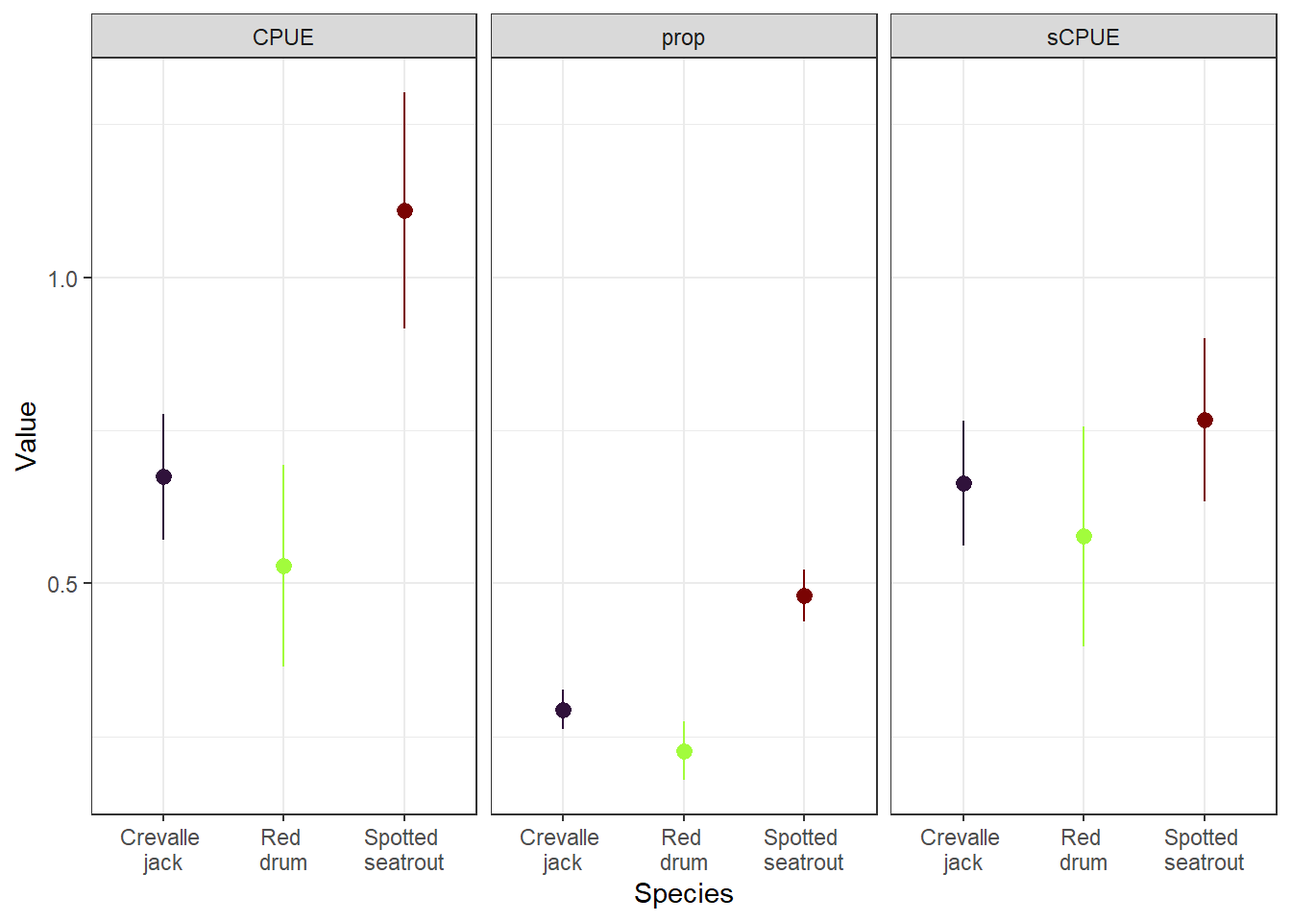
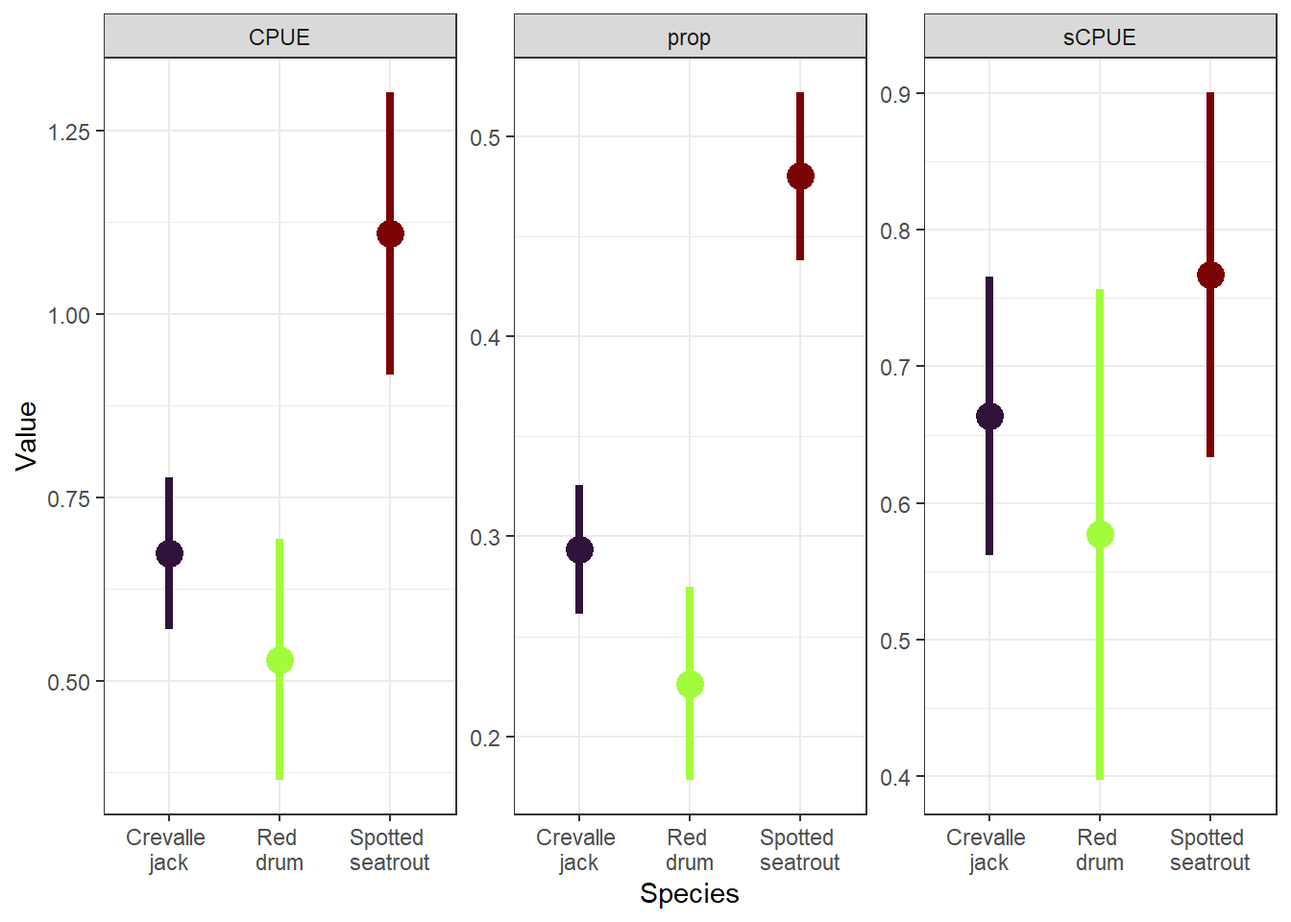
add answer key to hw 1

diff --git a/docs/solutions/hw1_key.html b/docs/solutions/hw1_key.html
@@ -282,34 +282,36 @@ pre > code.sourceCode > span > a:first-child::before { text-decoration: underlin
 <span id="cb3-15"><a href="#cb3-15" aria-hidden="true" tabindex="-1"></a><span class="co">#year with min CPUE</span></span>
 <span id="cb3-16"><a href="#cb3-16" aria-hidden="true" tabindex="-1"></a>df_m<span class="sc">$</span>Year[<span class="fu">which.min</span>(df_m<span class="sc">$</span>CPUE_m)]</span>
 <span id="cb3-17"><a href="#cb3-17" aria-hidden="true" tabindex="-1"></a><span class="do">## [1] 2015</span></span>
-<span id="cb3-18"><a href="#cb3-18" aria-hidden="true" tabindex="-1"></a></span>
-<span id="cb3-19"><a href="#cb3-19" aria-hidden="true" tabindex="-1"></a><span class="co"># species with maximum values </span></span>
-<span id="cb3-20"><a href="#cb3-20" aria-hidden="true" tabindex="-1"></a>df_m<span class="sc">$</span>max_sp</span>
-<span id="cb3-21"><a href="#cb3-21" aria-hidden="true" tabindex="-1"></a><span class="do">##  [1] "Spotted seatrout" "Spotted seatrout" "Spotted seatrout" "Spotted seatrout"</span></span>
-<span id="cb3-22"><a href="#cb3-22" aria-hidden="true" tabindex="-1"></a><span class="do">##  [5] "Spotted seatrout" "Spotted seatrout" "Spotted seatrout" "Spotted seatrout"</span></span>
-<span id="cb3-23"><a href="#cb3-23" aria-hidden="true" tabindex="-1"></a><span class="do">##  [9] "Spotted seatrout" "Spotted seatrout" "Spotted seatrout" "Spotted seatrout"</span></span>
-<span id="cb3-24"><a href="#cb3-24" aria-hidden="true" tabindex="-1"></a><span class="do">## [13] "Spotted seatrout" "Spotted seatrout" "Spotted seatrout" "Spotted seatrout"</span></span>
-<span id="cb3-25"><a href="#cb3-25" aria-hidden="true" tabindex="-1"></a><span class="do">## [17] "Spotted seatrout" "Spotted seatrout" "Spotted seatrout" "Spotted seatrout"</span></span>
-<span id="cb3-26"><a href="#cb3-26" aria-hidden="true" tabindex="-1"></a><span class="do">## [21] "Spotted seatrout" "Spotted seatrout" "Spotted seatrout" "Spotted seatrout"</span></span>
-<span id="cb3-27"><a href="#cb3-27" aria-hidden="true" tabindex="-1"></a><span class="do">## [25] "Spotted seatrout" "Spotted seatrout" "Spotted seatrout" "Spotted seatrout"</span></span>
-<span id="cb3-28"><a href="#cb3-28" aria-hidden="true" tabindex="-1"></a><span class="do">## [29] "Spotted seatrout" "Spotted seatrout" "Spotted seatrout" "Spotted seatrout"</span></span>
-<span id="cb3-29"><a href="#cb3-29" aria-hidden="true" tabindex="-1"></a><span class="do">## [33] "Spotted seatrout" "Spotted seatrout" "Spotted seatrout" "Spotted seatrout"</span></span>
-<span id="cb3-30"><a href="#cb3-30" aria-hidden="true" tabindex="-1"></a><span class="do">## [37] "Spotted seatrout" "Spotted seatrout"</span></span>
-<span id="cb3-31"><a href="#cb3-31" aria-hidden="true" tabindex="-1"></a></span>
-<span id="cb3-32"><a href="#cb3-32" aria-hidden="true" tabindex="-1"></a><span class="co"># species with min values</span></span>
-<span id="cb3-33"><a href="#cb3-33" aria-hidden="true" tabindex="-1"></a>df_m<span class="sc">$</span>min_sp</span>
-<span id="cb3-34"><a href="#cb3-34" aria-hidden="true" tabindex="-1"></a><span class="do">##  [1] "Crevalle jack" "Crevalle jack" "Red drum"      "Crevalle jack"</span></span>
-<span id="cb3-35"><a href="#cb3-35" aria-hidden="true" tabindex="-1"></a><span class="do">##  [5] "Crevalle jack" "Crevalle jack" "Red drum"      "Red drum"     </span></span>
-<span id="cb3-36"><a href="#cb3-36" aria-hidden="true" tabindex="-1"></a><span class="do">##  [9] "Red drum"      "Red drum"      "Red drum"      "Red drum"     </span></span>
-<span id="cb3-37"><a href="#cb3-37" aria-hidden="true" tabindex="-1"></a><span class="do">## [13] "Red drum"      "Red drum"      "Red drum"      "Red drum"     </span></span>
-<span id="cb3-38"><a href="#cb3-38" aria-hidden="true" tabindex="-1"></a><span class="do">## [17] "Red drum"      "Red drum"      "Red drum"      "Red drum"     </span></span>
-<span id="cb3-39"><a href="#cb3-39" aria-hidden="true" tabindex="-1"></a><span class="do">## [21] "Red drum"      "Red drum"      "Red drum"      "Red drum"     </span></span>
-<span id="cb3-40"><a href="#cb3-40" aria-hidden="true" tabindex="-1"></a><span class="do">## [25] "Red drum"      "Red drum"      "Red drum"      "Red drum"     </span></span>
-<span id="cb3-41"><a href="#cb3-41" aria-hidden="true" tabindex="-1"></a><span class="do">## [29] "Red drum"      "Red drum"      "Crevalle jack" "Crevalle jack"</span></span>
-<span id="cb3-42"><a href="#cb3-42" aria-hidden="true" tabindex="-1"></a><span class="do">## [33] "Red drum"      "Red drum"      "Red drum"      "Red drum"     </span></span>
-<span id="cb3-43"><a href="#cb3-43" aria-hidden="true" tabindex="-1"></a><span class="do">## [37] "Red drum"      "Red drum"</span></span></code><button title="Copy to Clipboard" class="code-copy-button"><i class="bi"></i></button></pre></div>
+<span id="cb3-18"><a href="#cb3-18" aria-hidden="true" tabindex="-1"></a><span class="fu">min</span>(df_m<span class="sc">$</span>CPUE_m)</span>
+<span id="cb3-19"><a href="#cb3-19" aria-hidden="true" tabindex="-1"></a><span class="do">## [1] 0.5793073</span></span>
+<span id="cb3-20"><a href="#cb3-20" aria-hidden="true" tabindex="-1"></a></span>
+<span id="cb3-21"><a href="#cb3-21" aria-hidden="true" tabindex="-1"></a><span class="co"># species with maximum values </span></span>
+<span id="cb3-22"><a href="#cb3-22" aria-hidden="true" tabindex="-1"></a>df_m<span class="sc">$</span>max_sp</span>
+<span id="cb3-23"><a href="#cb3-23" aria-hidden="true" tabindex="-1"></a><span class="do">##  [1] "Spotted seatrout" "Spotted seatrout" "Spotted seatrout" "Spotted seatrout"</span></span>
+<span id="cb3-24"><a href="#cb3-24" aria-hidden="true" tabindex="-1"></a><span class="do">##  [5] "Spotted seatrout" "Spotted seatrout" "Spotted seatrout" "Spotted seatrout"</span></span>
+<span id="cb3-25"><a href="#cb3-25" aria-hidden="true" tabindex="-1"></a><span class="do">##  [9] "Spotted seatrout" "Spotted seatrout" "Spotted seatrout" "Spotted seatrout"</span></span>
+<span id="cb3-26"><a href="#cb3-26" aria-hidden="true" tabindex="-1"></a><span class="do">## [13] "Spotted seatrout" "Spotted seatrout" "Spotted seatrout" "Spotted seatrout"</span></span>
+<span id="cb3-27"><a href="#cb3-27" aria-hidden="true" tabindex="-1"></a><span class="do">## [17] "Spotted seatrout" "Spotted seatrout" "Spotted seatrout" "Spotted seatrout"</span></span>
+<span id="cb3-28"><a href="#cb3-28" aria-hidden="true" tabindex="-1"></a><span class="do">## [21] "Spotted seatrout" "Spotted seatrout" "Spotted seatrout" "Spotted seatrout"</span></span>
+<span id="cb3-29"><a href="#cb3-29" aria-hidden="true" tabindex="-1"></a><span class="do">## [25] "Spotted seatrout" "Spotted seatrout" "Spotted seatrout" "Spotted seatrout"</span></span>
+<span id="cb3-30"><a href="#cb3-30" aria-hidden="true" tabindex="-1"></a><span class="do">## [29] "Spotted seatrout" "Spotted seatrout" "Spotted seatrout" "Spotted seatrout"</span></span>
+<span id="cb3-31"><a href="#cb3-31" aria-hidden="true" tabindex="-1"></a><span class="do">## [33] "Spotted seatrout" "Spotted seatrout" "Spotted seatrout" "Spotted seatrout"</span></span>
+<span id="cb3-32"><a href="#cb3-32" aria-hidden="true" tabindex="-1"></a><span class="do">## [37] "Spotted seatrout" "Spotted seatrout"</span></span>
+<span id="cb3-33"><a href="#cb3-33" aria-hidden="true" tabindex="-1"></a></span>
+<span id="cb3-34"><a href="#cb3-34" aria-hidden="true" tabindex="-1"></a><span class="co"># species with min values</span></span>
+<span id="cb3-35"><a href="#cb3-35" aria-hidden="true" tabindex="-1"></a>df_m<span class="sc">$</span>min_sp</span>
+<span id="cb3-36"><a href="#cb3-36" aria-hidden="true" tabindex="-1"></a><span class="do">##  [1] "Crevalle jack" "Crevalle jack" "Red drum"      "Crevalle jack"</span></span>
+<span id="cb3-37"><a href="#cb3-37" aria-hidden="true" tabindex="-1"></a><span class="do">##  [5] "Crevalle jack" "Crevalle jack" "Red drum"      "Red drum"     </span></span>
+<span id="cb3-38"><a href="#cb3-38" aria-hidden="true" tabindex="-1"></a><span class="do">##  [9] "Red drum"      "Red drum"      "Red drum"      "Red drum"     </span></span>
+<span id="cb3-39"><a href="#cb3-39" aria-hidden="true" tabindex="-1"></a><span class="do">## [13] "Red drum"      "Red drum"      "Red drum"      "Red drum"     </span></span>
+<span id="cb3-40"><a href="#cb3-40" aria-hidden="true" tabindex="-1"></a><span class="do">## [17] "Red drum"      "Red drum"      "Red drum"      "Red drum"     </span></span>
+<span id="cb3-41"><a href="#cb3-41" aria-hidden="true" tabindex="-1"></a><span class="do">## [21] "Red drum"      "Red drum"      "Red drum"      "Red drum"     </span></span>
+<span id="cb3-42"><a href="#cb3-42" aria-hidden="true" tabindex="-1"></a><span class="do">## [25] "Red drum"      "Red drum"      "Red drum"      "Red drum"     </span></span>
+<span id="cb3-43"><a href="#cb3-43" aria-hidden="true" tabindex="-1"></a><span class="do">## [29] "Red drum"      "Red drum"      "Crevalle jack" "Crevalle jack"</span></span>
+<span id="cb3-44"><a href="#cb3-44" aria-hidden="true" tabindex="-1"></a><span class="do">## [33] "Red drum"      "Red drum"      "Red drum"      "Red drum"     </span></span>
+<span id="cb3-45"><a href="#cb3-45" aria-hidden="true" tabindex="-1"></a><span class="do">## [37] "Red drum"      "Red drum"</span></span></code><button title="Copy to Clipboard" class="code-copy-button"><i class="bi"></i></button></pre></div>
 </div>
-<p><em>Short answer: The year with the highest mean CPUE is 0.9904098 in 1991. The year with the lowest mean CPUE is 0.5793073 in 2015. The species with the highest CPUE is always Spotted seatrout, but the minimum is both Crevalle Jack and Red drum depending on the year</em></p>
+<p><em>Short answer: The highest mean CPUE is 0.9904098 in 1991. The lowest mean CPUE is 0.5793073 in 2015. The species with the highest CPUE is always Spotted seatrout, but the minimum is both Crevalle Jack and Red drum depending on the year</em></p>
 <ol start="4" type="1">
 <li>(4 pts) Add 2 new columns to the dataframe/tibble from question 2. One column should contain the proportion of the yearly total CPUE for each species. The other column should scale CPUE so that the yearly catch is relative to the maximum CPUE for that species.<br>
 </li>
@@ -344,42 +346,41 @@ pre > code.sourceCode > span > a:first-child::before { text-decoration: underlin
 </ol>
 <div class="cell">
 <div class="sourceCode cell-code" id="cb5"><pre class="sourceCode r code-with-copy"><code class="sourceCode r"><span id="cb5-1"><a href="#cb5-1" aria-hidden="true" tabindex="-1"></a><span class="fu">library</span>(viridis)</span>
-<span id="cb5-2"><a href="#cb5-2" aria-hidden="true" tabindex="-1"></a><span class="do">## Loading required package: viridisLite</span></span>
-<span id="cb5-3"><a href="#cb5-3" aria-hidden="true" tabindex="-1"></a></span>
-<span id="cb5-4"><a href="#cb5-4" aria-hidden="true" tabindex="-1"></a><span class="co"># using ggarrange</span></span>
-<span id="cb5-5"><a href="#cb5-5" aria-hidden="true" tabindex="-1"></a><span class="fu">library</span>(ggpubr)</span>
-<span id="cb5-6"><a href="#cb5-6" aria-hidden="true" tabindex="-1"></a></span>
-<span id="cb5-7"><a href="#cb5-7" aria-hidden="true" tabindex="-1"></a>a <span class="ot">=</span> <span class="fu">ggplot</span>(df_n, <span class="fu">aes</span>(species, CPUE, <span class="at">fill =</span> species))<span class="sc">+</span></span>
-<span id="cb5-8"><a href="#cb5-8" aria-hidden="true" tabindex="-1"></a>      <span class="fu">geom_boxplot</span>()<span class="sc">+</span></span>
-<span id="cb5-9"><a href="#cb5-9" aria-hidden="true" tabindex="-1"></a>      <span class="fu">scale_fill_viridis_d</span>()<span class="sc">+</span></span>
-<span id="cb5-10"><a href="#cb5-10" aria-hidden="true" tabindex="-1"></a>      <span class="fu">labs</span>(<span class="at">x =</span> <span class="st">'Species'</span>, <span class="at">y =</span> <span class="st">'CPUE'</span>)<span class="sc">+</span></span>
-<span id="cb5-11"><a href="#cb5-11" aria-hidden="true" tabindex="-1"></a>      <span class="fu">scale_x_discrete</span>(<span class="at">labels =</span> <span class="fu">c</span>(<span class="st">'Crevalle </span><span class="sc">\n</span><span class="st">jack'</span>,</span>
-<span id="cb5-12"><a href="#cb5-12" aria-hidden="true" tabindex="-1"></a>                                  <span class="st">'Red </span><span class="sc">\n</span><span class="st">drum'</span>,</span>
-<span id="cb5-13"><a href="#cb5-13" aria-hidden="true" tabindex="-1"></a>                                  <span class="st">'Spotted </span><span class="sc">\n</span><span class="st">seatrout'</span>))<span class="sc">+</span></span>
-<span id="cb5-14"><a href="#cb5-14" aria-hidden="true" tabindex="-1"></a>      <span class="fu">theme_classic</span>()</span>
-<span id="cb5-15"><a href="#cb5-15" aria-hidden="true" tabindex="-1"></a>      </span>
-<span id="cb5-16"><a href="#cb5-16" aria-hidden="true" tabindex="-1"></a>b <span class="ot">=</span> <span class="fu">ggplot</span>(df_n, <span class="fu">aes</span>(species, prop, <span class="at">fill =</span> species))<span class="sc">+</span></span>
-<span id="cb5-17"><a href="#cb5-17" aria-hidden="true" tabindex="-1"></a>      <span class="fu">geom_boxplot</span>()<span class="sc">+</span></span>
-<span id="cb5-18"><a href="#cb5-18" aria-hidden="true" tabindex="-1"></a>      <span class="fu">scale_fill_viridis_d</span>()<span class="sc">+</span></span>
-<span id="cb5-19"><a href="#cb5-19" aria-hidden="true" tabindex="-1"></a>      <span class="fu">labs</span>(<span class="at">x =</span> <span class="st">'Species'</span>, <span class="at">y =</span> <span class="st">'Yearly Proportion of CPUE'</span>)<span class="sc">+</span></span>
-<span id="cb5-20"><a href="#cb5-20" aria-hidden="true" tabindex="-1"></a>      <span class="fu">scale_x_discrete</span>(<span class="at">labels =</span> <span class="fu">c</span>(<span class="st">'Crevalle </span><span class="sc">\n</span><span class="st">jack'</span>,</span>
-<span id="cb5-21"><a href="#cb5-21" aria-hidden="true" tabindex="-1"></a>                                  <span class="st">'Red </span><span class="sc">\n</span><span class="st">drum'</span>,</span>
-<span id="cb5-22"><a href="#cb5-22" aria-hidden="true" tabindex="-1"></a>                                  <span class="st">'Spotted </span><span class="sc">\n</span><span class="st">seatrout'</span>))<span class="sc">+</span></span>
-<span id="cb5-23"><a href="#cb5-23" aria-hidden="true" tabindex="-1"></a>      <span class="fu">theme_classic</span>()</span>
-<span id="cb5-24"><a href="#cb5-24" aria-hidden="true" tabindex="-1"></a></span>
-<span id="cb5-25"><a href="#cb5-25" aria-hidden="true" tabindex="-1"></a>c <span class="ot">=</span> <span class="fu">ggplot</span>(df_n, <span class="fu">aes</span>(species, sCPUE, <span class="at">fill =</span> species))<span class="sc">+</span></span>
-<span id="cb5-26"><a href="#cb5-26" aria-hidden="true" tabindex="-1"></a>      <span class="fu">geom_boxplot</span>()<span class="sc">+</span></span>
-<span id="cb5-27"><a href="#cb5-27" aria-hidden="true" tabindex="-1"></a>      <span class="fu">scale_fill_viridis_d</span>()<span class="sc">+</span></span>
-<span id="cb5-28"><a href="#cb5-28" aria-hidden="true" tabindex="-1"></a>      <span class="fu">labs</span>(<span class="at">x =</span> <span class="st">'Species'</span>, <span class="at">y =</span> <span class="st">'scaled CPUE'</span>)<span class="sc">+</span></span>
-<span id="cb5-29"><a href="#cb5-29" aria-hidden="true" tabindex="-1"></a>      <span class="fu">scale_x_discrete</span>(<span class="at">labels =</span> <span class="fu">c</span>(<span class="st">'Crevalle </span><span class="sc">\n</span><span class="st">jack'</span>,</span>
-<span id="cb5-30"><a href="#cb5-30" aria-hidden="true" tabindex="-1"></a>                                  <span class="st">'Red </span><span class="sc">\n</span><span class="st">drum'</span>,</span>
-<span id="cb5-31"><a href="#cb5-31" aria-hidden="true" tabindex="-1"></a>                                  <span class="st">'Spotted </span><span class="sc">\n</span><span class="st">seatrout'</span>))<span class="sc">+</span></span>
-<span id="cb5-32"><a href="#cb5-32" aria-hidden="true" tabindex="-1"></a>      <span class="fu">theme_classic</span>()</span>
-<span id="cb5-33"><a href="#cb5-33" aria-hidden="true" tabindex="-1"></a></span>
-<span id="cb5-34"><a href="#cb5-34" aria-hidden="true" tabindex="-1"></a><span class="fu">ggarrange</span>(a,b,c,</span>
-<span id="cb5-35"><a href="#cb5-35" aria-hidden="true" tabindex="-1"></a>          <span class="at">labels =</span> <span class="st">'auto'</span>,</span>
-<span id="cb5-36"><a href="#cb5-36" aria-hidden="true" tabindex="-1"></a>          <span class="at">legend =</span> <span class="st">'none'</span>,</span>
-<span id="cb5-37"><a href="#cb5-37" aria-hidden="true" tabindex="-1"></a>          <span class="at">nrow =</span> <span class="dv">1</span>)</span></code><button title="Copy to Clipboard" class="code-copy-button"><i class="bi"></i></button></pre></div>
+<span id="cb5-2"><a href="#cb5-2" aria-hidden="true" tabindex="-1"></a></span>
+<span id="cb5-3"><a href="#cb5-3" aria-hidden="true" tabindex="-1"></a><span class="co"># using ggarrange</span></span>
+<span id="cb5-4"><a href="#cb5-4" aria-hidden="true" tabindex="-1"></a><span class="fu">library</span>(ggpubr)</span>
+<span id="cb5-5"><a href="#cb5-5" aria-hidden="true" tabindex="-1"></a></span>
+<span id="cb5-6"><a href="#cb5-6" aria-hidden="true" tabindex="-1"></a>a <span class="ot">=</span> <span class="fu">ggplot</span>(df_n, <span class="fu">aes</span>(species, CPUE, <span class="at">fill =</span> species))<span class="sc">+</span></span>
+<span id="cb5-7"><a href="#cb5-7" aria-hidden="true" tabindex="-1"></a>      <span class="fu">geom_boxplot</span>()<span class="sc">+</span></span>
+<span id="cb5-8"><a href="#cb5-8" aria-hidden="true" tabindex="-1"></a>      <span class="fu">scale_fill_viridis_d</span>()<span class="sc">+</span></span>
+<span id="cb5-9"><a href="#cb5-9" aria-hidden="true" tabindex="-1"></a>      <span class="fu">labs</span>(<span class="at">x =</span> <span class="st">'Species'</span>, <span class="at">y =</span> <span class="st">'CPUE'</span>)<span class="sc">+</span></span>
+<span id="cb5-10"><a href="#cb5-10" aria-hidden="true" tabindex="-1"></a>      <span class="fu">scale_x_discrete</span>(<span class="at">labels =</span> <span class="fu">c</span>(<span class="st">'Crevalle </span><span class="sc">\n</span><span class="st">jack'</span>,</span>
+<span id="cb5-11"><a href="#cb5-11" aria-hidden="true" tabindex="-1"></a>                                  <span class="st">'Red </span><span class="sc">\n</span><span class="st">drum'</span>,</span>
+<span id="cb5-12"><a href="#cb5-12" aria-hidden="true" tabindex="-1"></a>                                  <span class="st">'Spotted </span><span class="sc">\n</span><span class="st">seatrout'</span>))<span class="sc">+</span></span>
+<span id="cb5-13"><a href="#cb5-13" aria-hidden="true" tabindex="-1"></a>      <span class="fu">theme_classic</span>()</span>
+<span id="cb5-14"><a href="#cb5-14" aria-hidden="true" tabindex="-1"></a>      </span>
+<span id="cb5-15"><a href="#cb5-15" aria-hidden="true" tabindex="-1"></a>b <span class="ot">=</span> <span class="fu">ggplot</span>(df_n, <span class="fu">aes</span>(species, prop, <span class="at">fill =</span> species))<span class="sc">+</span></span>
+<span id="cb5-16"><a href="#cb5-16" aria-hidden="true" tabindex="-1"></a>      <span class="fu">geom_boxplot</span>()<span class="sc">+</span></span>
+<span id="cb5-17"><a href="#cb5-17" aria-hidden="true" tabindex="-1"></a>      <span class="fu">scale_fill_viridis_d</span>()<span class="sc">+</span></span>
+<span id="cb5-18"><a href="#cb5-18" aria-hidden="true" tabindex="-1"></a>      <span class="fu">labs</span>(<span class="at">x =</span> <span class="st">'Species'</span>, <span class="at">y =</span> <span class="st">'Yearly Proportion of CPUE'</span>)<span class="sc">+</span></span>
+<span id="cb5-19"><a href="#cb5-19" aria-hidden="true" tabindex="-1"></a>      <span class="fu">scale_x_discrete</span>(<span class="at">labels =</span> <span class="fu">c</span>(<span class="st">'Crevalle </span><span class="sc">\n</span><span class="st">jack'</span>,</span>
+<span id="cb5-20"><a href="#cb5-20" aria-hidden="true" tabindex="-1"></a>                                  <span class="st">'Red </span><span class="sc">\n</span><span class="st">drum'</span>,</span>
+<span id="cb5-21"><a href="#cb5-21" aria-hidden="true" tabindex="-1"></a>                                  <span class="st">'Spotted </span><span class="sc">\n</span><span class="st">seatrout'</span>))<span class="sc">+</span></span>
+<span id="cb5-22"><a href="#cb5-22" aria-hidden="true" tabindex="-1"></a>      <span class="fu">theme_classic</span>()</span>
+<span id="cb5-23"><a href="#cb5-23" aria-hidden="true" tabindex="-1"></a></span>
+<span id="cb5-24"><a href="#cb5-24" aria-hidden="true" tabindex="-1"></a>c <span class="ot">=</span> <span class="fu">ggplot</span>(df_n, <span class="fu">aes</span>(species, sCPUE, <span class="at">fill =</span> species))<span class="sc">+</span></span>
+<span id="cb5-25"><a href="#cb5-25" aria-hidden="true" tabindex="-1"></a>      <span class="fu">geom_boxplot</span>()<span class="sc">+</span></span>
+<span id="cb5-26"><a href="#cb5-26" aria-hidden="true" tabindex="-1"></a>      <span class="fu">scale_fill_viridis_d</span>()<span class="sc">+</span></span>
+<span id="cb5-27"><a href="#cb5-27" aria-hidden="true" tabindex="-1"></a>      <span class="fu">labs</span>(<span class="at">x =</span> <span class="st">'Species'</span>, <span class="at">y =</span> <span class="st">'scaled CPUE'</span>)<span class="sc">+</span></span>
+<span id="cb5-28"><a href="#cb5-28" aria-hidden="true" tabindex="-1"></a>      <span class="fu">scale_x_discrete</span>(<span class="at">labels =</span> <span class="fu">c</span>(<span class="st">'Crevalle </span><span class="sc">\n</span><span class="st">jack'</span>,</span>
+<span id="cb5-29"><a href="#cb5-29" aria-hidden="true" tabindex="-1"></a>                                  <span class="st">'Red </span><span class="sc">\n</span><span class="st">drum'</span>,</span>
+<span id="cb5-30"><a href="#cb5-30" aria-hidden="true" tabindex="-1"></a>                                  <span class="st">'Spotted </span><span class="sc">\n</span><span class="st">seatrout'</span>))<span class="sc">+</span></span>
+<span id="cb5-31"><a href="#cb5-31" aria-hidden="true" tabindex="-1"></a>      <span class="fu">theme_classic</span>()</span>
+<span id="cb5-32"><a href="#cb5-32" aria-hidden="true" tabindex="-1"></a></span>
+<span id="cb5-33"><a href="#cb5-33" aria-hidden="true" tabindex="-1"></a><span class="fu">ggarrange</span>(a,b,c,</span>
+<span id="cb5-34"><a href="#cb5-34" aria-hidden="true" tabindex="-1"></a>          <span class="at">labels =</span> <span class="st">'auto'</span>,</span>
+<span id="cb5-35"><a href="#cb5-35" aria-hidden="true" tabindex="-1"></a>          <span class="at">legend =</span> <span class="st">'none'</span>,</span>
+<span id="cb5-36"><a href="#cb5-36" aria-hidden="true" tabindex="-1"></a>          <span class="at">nrow =</span> <span class="dv">1</span>)</span></code><button title="Copy to Clipboard" class="code-copy-button"><i class="bi"></i></button></pre></div>
 <div class="cell-output-display">
 <div>
 <figure class="figure">
@@ -398,15 +399,16 @@ pre > code.sourceCode > span > a:first-child::before { text-decoration: underlin
 <span id="cb6-9"><a href="#cb6-9" aria-hidden="true" tabindex="-1"></a>      <span class="fu">stat_summary</span>(<span class="at">fun =</span> mean,</span>
 <span id="cb6-10"><a href="#cb6-10" aria-hidden="true" tabindex="-1"></a>               <span class="at">fun.min =</span> <span class="cf">function</span>(x) <span class="fu">mean</span>(x) <span class="sc">-</span> <span class="fu">sd</span>(x), </span>
 <span id="cb6-11"><a href="#cb6-11" aria-hidden="true" tabindex="-1"></a>               <span class="at">fun.max =</span> <span class="cf">function</span>(x) <span class="fu">mean</span>(x) <span class="sc">+</span> <span class="fu">sd</span>(x), </span>
-<span id="cb6-12"><a href="#cb6-12" aria-hidden="true" tabindex="-1"></a>               <span class="at">geom =</span> <span class="st">"pointrange"</span>)<span class="sc">+</span></span>
-<span id="cb6-13"><a href="#cb6-13" aria-hidden="true" tabindex="-1"></a>      <span class="fu">scale_color_viridis_d</span>(<span class="at">option =</span> <span class="st">'turbo'</span>)<span class="sc">+</span></span>
-<span id="cb6-14"><a href="#cb6-14" aria-hidden="true" tabindex="-1"></a>      <span class="fu">scale_x_discrete</span>(<span class="at">labels =</span> <span class="fu">c</span>(<span class="st">'Crevalle </span><span class="sc">\n</span><span class="st">jack'</span>,</span>
-<span id="cb6-15"><a href="#cb6-15" aria-hidden="true" tabindex="-1"></a>                                  <span class="st">'Red </span><span class="sc">\n</span><span class="st">drum'</span>,</span>
-<span id="cb6-16"><a href="#cb6-16" aria-hidden="true" tabindex="-1"></a>                                  <span class="st">'Spotted </span><span class="sc">\n</span><span class="st">seatrout'</span>))<span class="sc">+</span></span>
-<span id="cb6-17"><a href="#cb6-17" aria-hidden="true" tabindex="-1"></a>      <span class="fu">labs</span>(<span class="at">x =</span> <span class="st">'Species'</span>, <span class="at">y =</span> <span class="st">'Value'</span>)<span class="sc">+</span></span>
-<span id="cb6-18"><a href="#cb6-18" aria-hidden="true" tabindex="-1"></a>      <span class="fu">facet_wrap</span>(<span class="sc">~</span>metric)<span class="sc">+</span></span>
-<span id="cb6-19"><a href="#cb6-19" aria-hidden="true" tabindex="-1"></a>      <span class="fu">theme_bw</span>()<span class="sc">+</span></span>
-<span id="cb6-20"><a href="#cb6-20" aria-hidden="true" tabindex="-1"></a>      <span class="fu">theme</span>(<span class="at">legend.position =</span> <span class="st">'none'</span>)</span></code><button title="Copy to Clipboard" class="code-copy-button"><i class="bi"></i></button></pre></div>
+<span id="cb6-12"><a href="#cb6-12" aria-hidden="true" tabindex="-1"></a>               <span class="at">geom =</span> <span class="st">"pointrange"</span>,</span>
+<span id="cb6-13"><a href="#cb6-13" aria-hidden="true" tabindex="-1"></a>               <span class="at">size =</span> <span class="dv">1</span>, <span class="at">linewidth =</span> <span class="fl">1.5</span>)<span class="sc">+</span></span>
+<span id="cb6-14"><a href="#cb6-14" aria-hidden="true" tabindex="-1"></a>      <span class="fu">scale_color_viridis_d</span>(<span class="at">option =</span> <span class="st">'turbo'</span>)<span class="sc">+</span></span>
+<span id="cb6-15"><a href="#cb6-15" aria-hidden="true" tabindex="-1"></a>      <span class="fu">scale_x_discrete</span>(<span class="at">labels =</span> <span class="fu">c</span>(<span class="st">'Crevalle </span><span class="sc">\n</span><span class="st">jack'</span>,</span>
+<span id="cb6-16"><a href="#cb6-16" aria-hidden="true" tabindex="-1"></a>                                  <span class="st">'Red </span><span class="sc">\n</span><span class="st">drum'</span>,</span>
+<span id="cb6-17"><a href="#cb6-17" aria-hidden="true" tabindex="-1"></a>                                  <span class="st">'Spotted </span><span class="sc">\n</span><span class="st">seatrout'</span>))<span class="sc">+</span></span>
+<span id="cb6-18"><a href="#cb6-18" aria-hidden="true" tabindex="-1"></a>      <span class="fu">labs</span>(<span class="at">x =</span> <span class="st">'Species'</span>, <span class="at">y =</span> <span class="st">'Value'</span>)<span class="sc">+</span></span>
+<span id="cb6-19"><a href="#cb6-19" aria-hidden="true" tabindex="-1"></a>      <span class="fu">facet_wrap</span>(<span class="sc">~</span>metric, <span class="at">scales =</span> <span class="st">'free_y'</span>)<span class="sc">+</span></span>
+<span id="cb6-20"><a href="#cb6-20" aria-hidden="true" tabindex="-1"></a>      <span class="fu">theme_bw</span>()<span class="sc">+</span></span>
+<span id="cb6-21"><a href="#cb6-21" aria-hidden="true" tabindex="-1"></a>      <span class="fu">theme</span>(<span class="at">legend.position =</span> <span class="st">'none'</span>)</span></code><button title="Copy to Clipboard" class="code-copy-button"><i class="bi"></i></button></pre></div>
 <div class="cell-output-display">
 <div>
 <figure class="figure">

diff --git a/docs/hw1.html b/docs/hw1.html
@@ -166,6 +166,8 @@ ul.task-list li input[type="checkbox"] {
 </header>
 
 
+<p><a href="solutions/hw1_key.html">Answer key</a><br>
+</p>
 <section id="instructions" class="level2">
 <h2 class="anchored" data-anchor-id="instructions">Instructions</h2>
 <p>Please, using quarto or rmarkdown, answer the questions below. You can use the class notes, the recommended books, and other web materials to help answer the questions. You can work on the homework in groups, but please independently submit pdf or html document containing answers and code.</p>
